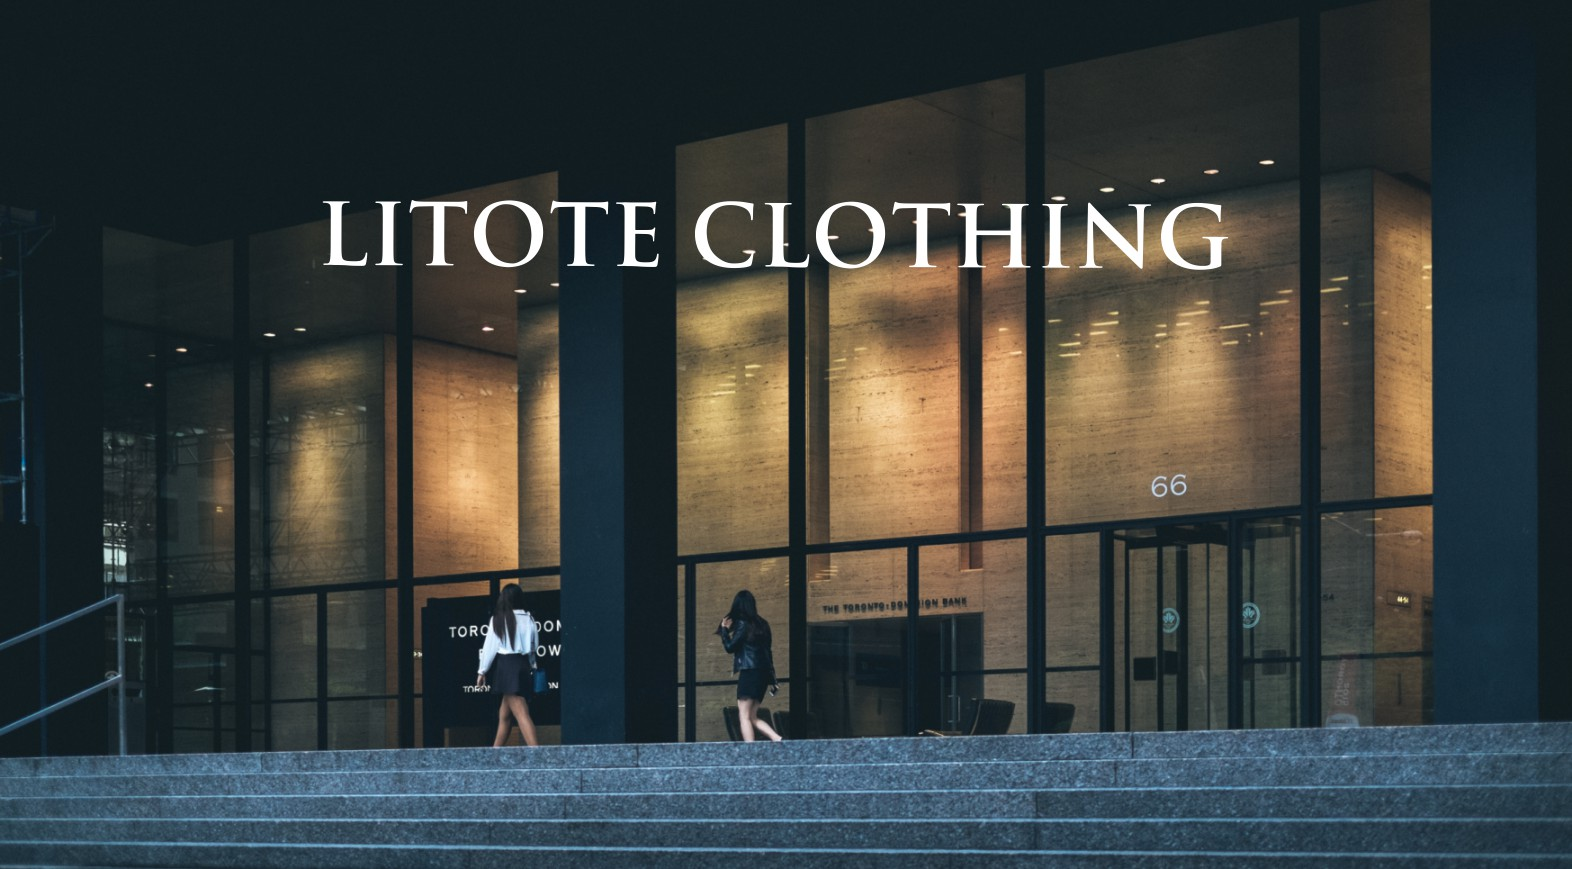
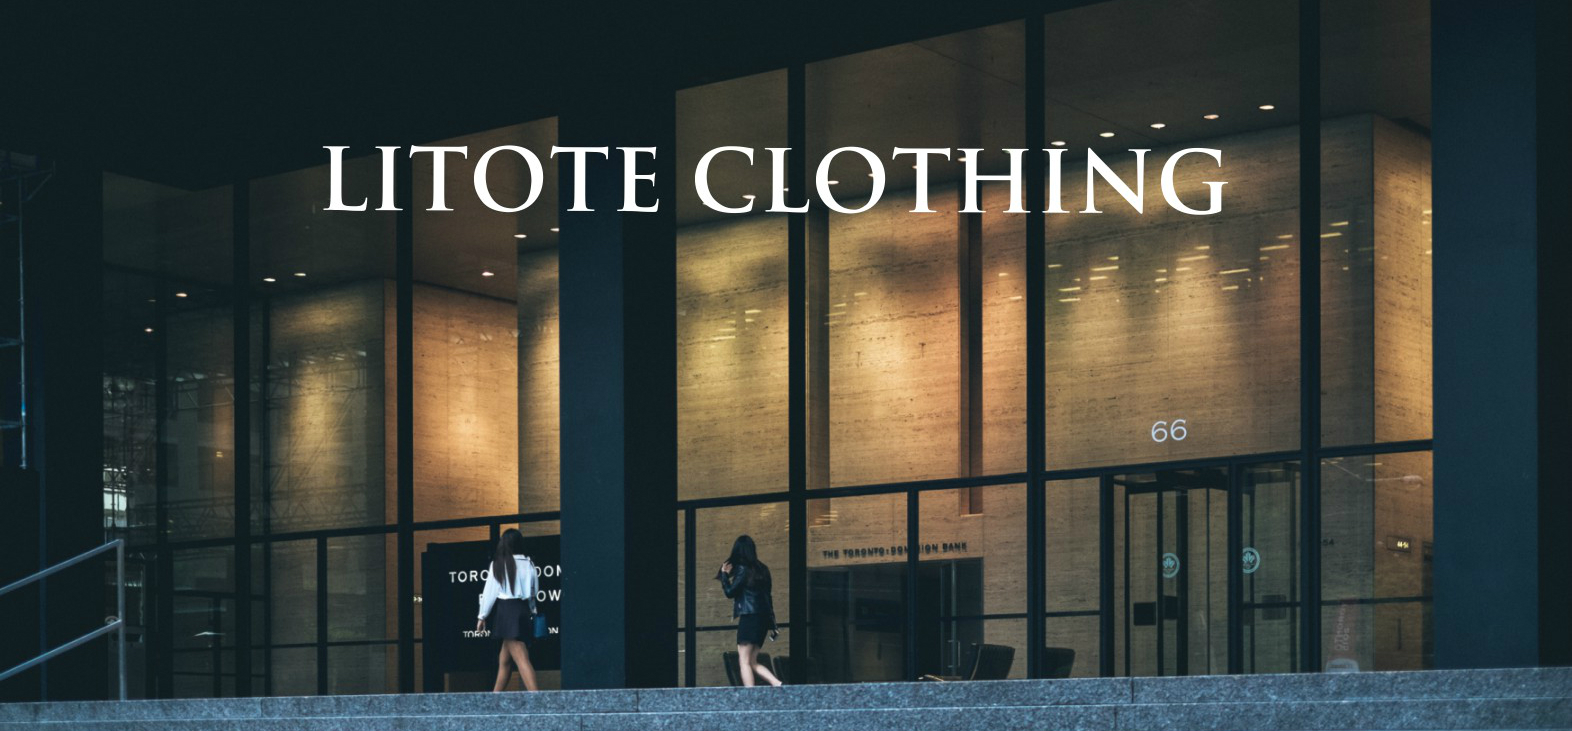
user param errors fixed, style rework to accommodate notice, hero image removed from all but landing page

diff --git a/app/assets/stylesheets/static_pages.css.scss b/app/assets/stylesheets/static_pages.css.scss
@@ -5,11 +5,19 @@
 body{
 	font-family: Futura, 'Trebuchet MS', Arial, sans-serif;
 	text-align: center;
-  margin-top: 20px;
-  background-color: #E8E7E7
+  background-color: #E8E7E7;
+  padding-top: 60px;
 }
 
 /*Nav Bar*/
+nav {
+  padding-bottom: 30px;
+}
+
+.product_image {
+  position:relative;
+  bottom: 50px;
+}
 
 .project a {
   float:left;
@@ -40,8 +48,7 @@ body{
 }
 
 #search_button:hover{
-  color: #FF3399;
-  
+  color: #FF3399; 
 }
 
 #search_button {
@@ -67,11 +74,12 @@ body{
 	-o-transition: color 600ms;
 }
 
+
 /*Carousel on landing page */
 .featured_image {
   width: 80%;
   margin: auto;
-  padding-top: 2%;
+  padding: 2%;
 }
 
 .carousel-caption {
@@ -86,8 +94,12 @@ body{
 
 /*Main Content */
 .notice {
-  padding-top: 1%;
-  color: green;
+  color: #FF3399;
+  font-weight: 600;
+  position: absolute;
+  top: 35px;
+  width: 100%;
+  z-index: 1000;
 }
 
 .page_info {

diff --git a/app/assets/stylesheets/products.css.scss b/app/assets/stylesheets/products.css.scss
@@ -5,7 +5,7 @@
 table {
   width: 95%;
   border: solid;
-  margin: 2% auto;
+  margin: 5% auto;
 }
 
 tr {

diff --git a/app/assets/stylesheets/users.css.scss b/app/assets/stylesheets/users.css.scss
@@ -9,5 +9,4 @@
 .devise_form {
   width: 30%;
   margin: 0 auto;
-  
 }

diff --git a/db/schema.rb b/db/schema.rb
@@ -11,7 +11,7 @@
 #
 # It's strongly recommended that you check this file into your version control system.
 
-ActiveRecord::Schema.define(version: 20150906074304) do
+ActiveRecord::Schema.define(version: 20150906104908) do
 
   create_table "comments", force: true do |t|
     t.integer  "user_id"
@@ -59,6 +59,7 @@ ActiveRecord::Schema.define(version: 20150906074304) do
     t.string   "last_sign_in_ip"
     t.string   "first_name"
     t.string   "last_name"
+    t.string   "current_password"
   end
 
   add_index "users", ["email"], name: "index_users_on_email", unique: true

diff --git a/app/controllers/orders_controller.rb b/app/controllers/orders_controller.rb
@@ -12,6 +12,7 @@ class OrdersController < ApplicationController
   end
   
   def new
+    @order = Order.new
   end
   
   def create
@@ -21,5 +22,9 @@ class OrdersController < ApplicationController
     # Use callbacks to share common setup or constraints between actions.  
   def set_order
     @order= Order.find(params[:id])
+  end
+  
+  def order_params
+    params.require(:order).permit(:product_id, :user_id)
   end
 end

diff --git a/app/controllers/products_controller.rb b/app/controllers/products_controller.rb
@@ -73,6 +73,6 @@ class ProductsController < ApplicationController
 
     # Never trust parameters from the scary internet, only allow the white list through.
     def product_params
-      params.require(:product).permit(:name, :description, :image_url, :colour, :price)
+      params.require(:product).permit(:name, :description, :image_url, :colour, :price, :stock)
     end
   end

diff --git a/app/controllers/users_controller.rb b/app/controllers/users_controller.rb
@@ -70,6 +70,6 @@ class UsersController < ApplicationController
 
     # Never trust parameters from the scary internet, only allow the white list through.
     def user_params
-      params.require(:user).permit(:first_name, :last_name, :password)
+      params.require(:user).permit(:first_name, :last_name, :password, :current_password, :email)
     end
 end

diff --git a/db/migrate/20150906104908_add_current_to_users.rb b/db/migrate/20150906104908_add_current_to_users.rb
@@ -1,0 +1,5 @@
+class AddCurrentToUsers < ActiveRecord::Migration
+  def change
+    add_column :users, :current_password, :string
+  end
+end
